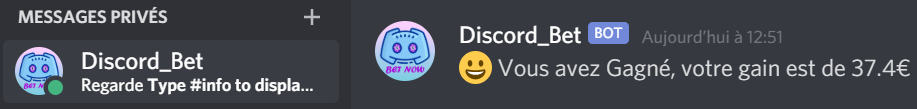
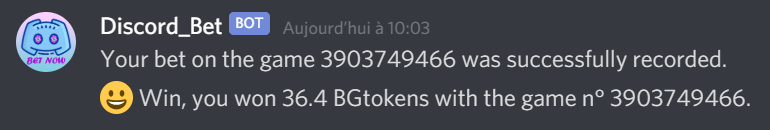
Ajout d'une page en anglais pour le siteweb Changements images amélioration siteweb

Changed region(s): [[0.0, 0.0826, 0.9974, 0.8807]]

diff --git a/src/main/resources/templates/documentation.html b/src/main/resources/templates/documentation.html
@@ -16,7 +16,7 @@
 	            <div class="container">
 	                <div id="navMenu" class="navbar-menu">
 	                    <div class="navbar-start">
-	                    	<a class="navbar-item" th:href="@{index}">
+	                    	<a class="navbar-item" th:href="@{accueil}">
       							<img th:src="@{/images/bet-games-title.png}" id="bet-games-title">
     						</a>
 	                        <a class="navbar-item" id="active-item" th:href="@{documentation}">
@@ -47,13 +47,13 @@
 				   	</div>
 				   	<div class="message-div">
 				   		<p>Suite à cela, nous avons eu l'idée de profiter de l'essor des paris en ligne et du leader des jeux de compétitions qui est entre autres <b>League of Legends.</b>
-				   		Bon nombres de joueurs se lancent sur les champs de bataille pour s'affronter et prouver qu'ils méritent leur place sur le podium, Pourquoi ne pas pimenter les choses ?</p>
+				   		Bon nombre de joueurs se lancent sur les champs de bataille pour s'affronter et prouver qu'ils méritent leur place sur le podium, pourquoi ne pas pimenter les choses ?</p>
 				   	</div>
 				   	<div class="message-div center-img">
 				   		<img th:src="@{/images/bank.png}" id="bank">
 				   	</div>
 					<div class="message-div">
-				   		<p>Si on vous dit que vous pouvez gagner de l'argent grâce à vos équipes de joueurs professionnels préférés ? Misez, Analysez et Jouez à l'aide de notre bot Discord qui s'occupe de votre paris !
+				   		<p>Si on vous disait que vous pouvez gagner de l'argent grâce à vos équipes de joueurs professionnels préférés ? Misez, Analysez et Jouez à l'aide de notre bot Discord qui s'occupe de votre paris !
 				   		Venez découvrir comment fonctionne notre bot afin de le maîtriser à la perfection.</p>   
 				   	</div>
 				  </div>
@@ -68,7 +68,7 @@
             			<img th:src="@{/images/discordillustr.jpg}" class="img-article">
             		</div>
             		<div class="div-in-article">
-            			<p class="paragraph-article-body"><b><u>Étape 1</u> :</b> Ajoutez notre bot sur votre serveur discord favori, il vous faut simplement cliquer sur le bouton ci-dessous et se connecter sur votre compte pour désigner le serveur de votre choix.</p>
+            			<p class="paragraph-article-body"><b><u>Étape 1</u> :</b> Ajoutez notre bot sur votre serveur discord favori en cliquant sur le bouton ci-dessous, connectez vous sur votre compte et sélectionner le serveur de votre choix.</p>
             			<button class="button hero-button left" onclick="window.open('https://discord.com/oauth2/authorize?client_id=780382231411687445&permissions=0&scope=bot')"><img th:src="@{/images/discord-black-icon.png}" id="logo-discord"/>Ajouter à Discord</button>
             		</div>
             		<div class="div-in-article">
@@ -113,7 +113,7 @@
 							      <td>Pour avoir un rappel de la liste de commandes disponibles directement sur le salon textuel</td>
 							    </tr>
 							    <tr>
-							      <th>#connexion</th>
+							      <th>#connection</th>
 							      <td>Pour se connecter à une partie</td>
 							    </tr>
 							    <tr>
@@ -146,12 +146,12 @@
             <div class="hero-body-two">
 				<article class="article-hero-body-two middle">
 				   	<div class="div-in-article border">
-            			<p class="paragraph-article-body cmd"><b>#connexion</b>  </p>
-            			<p class="paragraph-article-body cmd-explication">[Nom du joueur attaché <i class="fas fa-exclamation-triangle"></i>] [Région]</p>
+            			<p class="paragraph-article-body cmd"><b>#connection</b>  </p>
+            			<p class="paragraph-article-body cmd-explication">[pseudo du joueur sur lequel vous voulez parier (tout en attaché <i class="fas fa-exclamation-triangle"></i>)] [région]</p>
             		</div>
             		<div class="div-in-article">
-            			<p class="paragraph-article-body"><b><u>Étape 3</u> :</b> Vous êtes maintenant prêt à parier ! Pour se connecter à la partie de votre joueur au choix, effectuez la
-            			commande <b>#connexion</b> sans oublier la région (voir la liste disponible).</p>
+            			<p class="paragraph-article-body"><b><u>Étape 3</u> :</b> Vous êtes maintenant prêt à parier ! Pour se connecter à la partie du joueur de votre choix, effectuez la
+            			commande <b>#connection</b> sans oublier la région (voir la liste disponible).</p>
             			<p class="paragraph-article-body"> Afin de vous aider à trouver une partie, vous pouvez utiliser le site <a id="porofessor" onclick="window.open('https://porofessor.gg/fr/')"><u>Porofessor.gg</u></a> .</p>
             		</div>
             		<div class="div-in-article"> 
@@ -164,7 +164,7 @@
             		</div>
             		<div class="div-in-article">
             			<p class="paragraph-article-body"><b><u>Étape 4</u> :</b> Vous pouvez à partir de ces deux commandes, connaître l'identifiant de la partie jouée (plusieurs parties sont disponibles), 
-            			le nom de la team (<span id="bleue">bleue</span> = <b>100</b>, <span id="rouge">rouge</span> = <b>200</b>) et la composition.</p>
+            			le nom de la team (<span id="bleue">bleue</span> ou <span id="rouge">red</span>) et la composition.</p>
             		</div>
             		<div class="div-in-article border"> 
 						<p class="paragraph-article-body cmd"><b>#games</b>  </p>
@@ -179,12 +179,12 @@
 				<article class="article-hero-body-two middle">
 				   	<div class="div-in-article border">
             			<p class="paragraph-article-body cmd"><b>#odds</b>  </p>
-            			<p class="paragraph-article-body cmd-explication">[Nom de l'équipe] [ID de la partie]</p>
+            			<p class="paragraph-article-body cmd-explication">[Couelur de l'équipe] [ID de la partie]</p>
             			<p class="paragraph-article-body cmd"><b>#bet</b>  </p>
-            			<p class="paragraph-article-body cmd-explication">[Nom de l'équipe] [Mise] [ID de la partie]</p>
+            			<p class="paragraph-article-body cmd-explication">[Couleur de l'équipe] [Mise] [ID de la partie]</p>
             		</div>
             		<div class="div-in-article">
-            			<p class="paragraph-article-body"><b><u>Étape 5</u> :</b> Pour connaître la cote de l'équipe de votre choix <b>#odds</b> et enfin pariez <b>#bet</b> (<u>l'exemple</u> mise 20€).</p> 
+            			<p class="paragraph-article-body"><b><u>Étape 5</u> :</b> Pour connaitre la cote de l'équipe de votre choix, utilisez la commande #odds et enfin pour parier #bet (sur l'exemple ci-contre nous réalisons un pari de 20 BGjetons sur l'équipe bleue de la partie n°3903749466).</p> 
             		</div>
             		<div class="div-in-article"> 
             			<img th:src="@{/images/paris.png}" class="img-article">
@@ -196,7 +196,7 @@
             		</div>
             		<div class="div-in-article">
             			<p class="paragraph-article-body paraf-mid"><i class="fas fa-fire-alt"></i> Félicitation !!! <i class="fas fa-fire-alt"></i> </p>
-            			<p class="paragraph-article-body paraf-mid"><i class="fas fa-money-bill-wave"></i> Vous avez remporté 37.4€ <i class="fas fa-money-bill-wave"></i></p> 
+            			<p class="paragraph-article-body paraf-mid mini"><i class="fas fa-money-bill-wave"></i> Vous avez remporté 36.4 BGjetons <i class="fas fa-money-bill-wave"></i></p> 
             		</div>
             		<div class="div-in-article"> 
             			<img th:src="@{/images/prive.png}" class="img-article">
@@ -207,12 +207,40 @@
 	           	</div>   
             <div/>
         </section>
-        <footer class="footer">
+       <footer class="footer">
             <div class="content has-text-centered">
-                <p>
-                    <strong>&copy;2021 Bet-Games</strong> par <i>Thomas SCHMID</i>, <i>Alexis RAFÉ</i>, <i>Ines BEN-SLAMA</i> et <i>Loris MARTINEZ</i>.
-                </p>
+            	<div class="footer-mid">
+	                <p>
+	                    <strong>&copy;2021 Bet-Games</strong> par <i>Thomas SCHMID</i>, <i>Alexis RAFÉ</i>, <i>Ines BEN-SLAMA</i> et <i>Loris MARTINEZ</i>.
+	                </p>
+            	</div>
+            	<div class="footer-right">
+	                <div class="dropdown">
+					  <div class="dropdown-trigger">
+					    <button class="button" aria-haspopup="true" aria-controls="dropdown-menu">
+					      <span><img th:src="@{/images/france.png}" id="france"> Français</span>
+					      <span class="icon is-small">
+					        <i class="fas fa-angle-down" aria-hidden="true"></i>
+					      </span>
+					    </button>
+					  </div>
+					  <div class="dropdown-menu" id="dropdown-menu" role="menu">
+					    <div class="dropdown-content">
+					      <a th:href="@{/en/documentation}" class="dropdown-item">
+					        <img th:src="@{/images/english.png}" id="english"> English
+					      </a>
+					    </div>
+					  </div>
+					</div>
+            	</div>
             </div>
         </footer>
     </body>
+    <script type="text/javascript">
+ 		var dropdown = document.querySelector('.dropdown');
+		dropdown.addEventListener('click', function(event) {
+		  event.stopPropagation();
+		  dropdown.classList.toggle('is-active');
+		});
+	</script>
 </html>

diff --git a/src/main/resources/templates/accueil.html b/src/main/resources/templates/accueil.html
@@ -7,6 +7,7 @@
         <link rel="stylesheet" href="https://cdn.jsdelivr.net/npm/bulma@0.9.2/css/bulma.min.css">
         <link rel="stylesheet" th:href="@{/css/style.css}" type="text/css" />
         <link rel="shortcut icon" th:href="@{/images/favicon-32x32.png}" />
+        <script src="https://kit.fontawesome.com/b98adfbb97.js" crossorigin="anonymous"></script>
     </head>
     <body>
         <section class="hero is-link is-fullheight-with-navbar">
@@ -14,7 +15,7 @@
 	            <div class="container">
 	                <div id="navMenu" class="navbar-menu">
 	                    <div class="navbar-start">
-	                    	<a class="navbar-item" th:href="@{index}">
+	                    	<a class="navbar-item" th:href="@{accueil}">
       							<img th:src="@{/images/bet-games-title.png}" id="bet-games-title">
     						</a>
 	                        <a class="navbar-item" id="active-item" th:href="@{documentation}">
@@ -38,7 +39,7 @@
         <section class="hero is-dark is-fullheight-with-navbar">
             <div class="hero-body-two">
                 <div class="first">
-                    <p style="color: #2F4F4F; text-align: center; font-size: 24px">Venez parier sur votre jeu vidéo préféré et remportez un maximum de gain !</p>
+                    <p style="color: #2F4F4F; text-align: center; font-size: 24px">Venez parier sur votre jeu vidéo préféré et remportez un maximum de gain <i class="fas fa-exclamation"></i></p>
                 </div>
                 <div class="second">
                     <button class="button hero-button left" onclick="window.open('https://discord.com/oauth2/authorize?client_id=780382231411687445&permissions=0&scope=bot')"><img th:src="@{/images/discord-black-icon.png}" id="logo-discord"/>Ajouter à Discord</button>
@@ -51,10 +52,38 @@
         </section> 
         <footer class="footer">
             <div class="content has-text-centered">
-                <p>
-                    <strong>&copy;2021 Bet-Games</strong> par <i>Thomas SCHMID</i>, <i>Alexis RAFÉ</i>, <i>Ines BEN-SLAMA</i> et <i>Loris MARTINEZ</i>.
-                </p>
+            	<div class="footer-mid">
+	                <p>
+	                    <strong>&copy;2021 Bet-Games</strong> par <i>Thomas SCHMID</i>, <i>Alexis RAFÉ</i>, <i>Ines BEN-SLAMA</i> et <i>Loris MARTINEZ</i>.
+	                </p>
+            	</div>
+            	<div class="footer-right">
+	                <div class="dropdown">
+					  <div class="dropdown-trigger">
+					    <button class="button" aria-haspopup="true" aria-controls="dropdown-menu">
+					      <span><img th:src="@{/images/france.png}" id="france"> Français</span>
+					      <span class="icon is-small">
+					        <i class="fas fa-angle-down" aria-hidden="true"></i>
+					      </span>
+					    </button>
+					  </div>
+					  <div class="dropdown-menu" id="dropdown-menu" role="menu">
+					    <div class="dropdown-content">
+					      <a th:href="@{/en/home}" class="dropdown-item">
+					        <img th:src="@{/images/english.png}" id="english"> English
+					      </a>
+					    </div>
+					  </div>
+					</div>
+            	</div>
             </div>
         </footer>
     </body>
+    <script type="text/javascript">
+ 		var dropdown = document.querySelector('.dropdown');
+		dropdown.addEventListener('click', function(event) {
+		  event.stopPropagation();
+		  dropdown.classList.toggle('is-active');
+		});
+	</script>
 </html>

diff --git a/src/main/resources/static/css/style.css b/src/main/resources/static/css/style.css
@@ -153,6 +153,14 @@
     margin-right: auto;
 	width: 100%;
 	}
+	
+.has-text-centered {
+    display: block;
+	}
+
+.footer-right {
+    padding: 2rem;
+	}
 }
 
 .hero-body-two{
@@ -194,8 +202,35 @@
 #hi{
 	display: none;
 	}
+
+.has-text-centered {
+    display: flex;
+	}
 }
 
 .footer{
-    padding: 3rem 1.5rem 3rem;
+    padding: 3rem 1.5rem 5rem;
+}
+
+.footer-mid{
+	margin-left: auto;
+}
+
+.footer-right{
+	margin-right: auto;
+    margin-left: auto;
+}
+
+.fas.fa-exclamation{
+	color: #2F4F4F;
+}
+
+#france{
+	border: solid 1px;
+	width: 20px;
+}
+
+#english{
+	border: solid 1px;
+	width: 20px;
 }

diff --git a/src/main/resources/static/css/styledoc.css b/src/main/resources/static/css/styledoc.css
@@ -194,6 +194,7 @@
 }
 
 .paragraph-article-body {
+	text-align: left;
     color: #2F4F4F;
 	font-family: "Berlin Sans FB Regular";
 }
@@ -291,4 +292,8 @@
 
 .paragraph-article-body.paraf-mid {
 	text-align: center;
+}
+
+.paragraph-article-body.paraf-mid.mini {
+	font-size: 15px;
 }

diff --git a/src/main/java/com/isenteam/betgames/controller/webcontent.java b/src/main/java/com/isenteam/betgames/controller/webcontent.java
@@ -1,6 +1,7 @@
 package com.isenteam.betgames.controller;
 
 import org.springframework.stereotype.Controller;
+import org.springframework.web.bind.annotation.GetMapping;
 import org.springframework.web.bind.annotation.RequestMapping;
 import org.springframework.web.bind.annotation.RequestMethod;
 
@@ -8,13 +9,23 @@ import org.springframework.web.bind.annotation.RequestMethod;
 @Controller
 public class webcontent {
 	
-	@RequestMapping(value = { "/", "/index" }, method = RequestMethod.GET)
-	public String index() {
-		return "index";
+	@RequestMapping(value = { "/", "/accueil" }, method = RequestMethod.GET)
+	public String accueil() {
+		return "accueil";
 	}
 
 	@RequestMapping(value = { "/documentation" }, method = RequestMethod.GET)
-	public String personList() {
+	public String documentation() {
 		return "documentation";
+	}
+	
+	@RequestMapping(value = { "en/home" }, method = RequestMethod.GET)
+	public String home() {
+		return "en/home";
+	}
+	
+	@RequestMapping(value = { "en/documentation" }, method = RequestMethod.GET)
+	public String endocumentation() {
+		return "en/documentation";
 	}
 }
